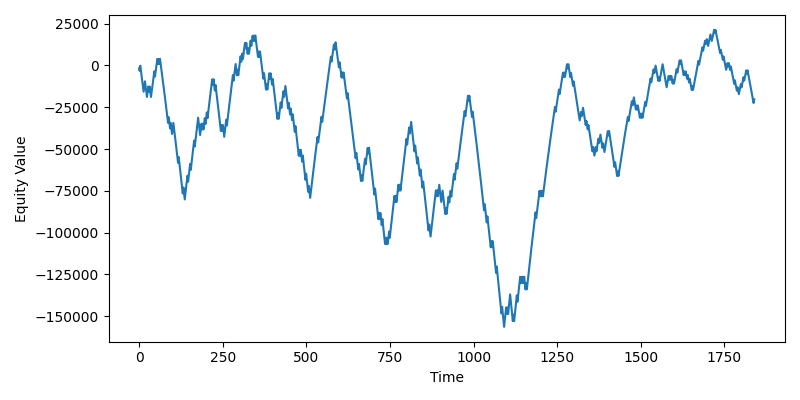
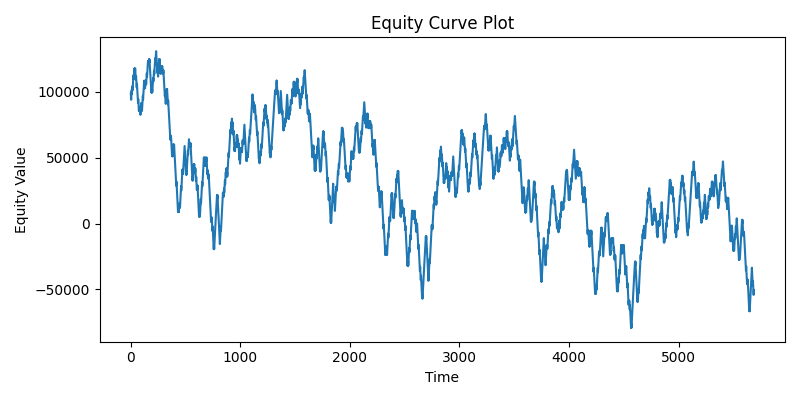
working on fixing the calculations

diff --git a/Assignment1/reporting.py b/Assignment1/reporting.py
@@ -4,45 +4,100 @@ import numpy as np
 import matplotlib.pyplot as plt
 from engine import ExecutionEngine
 
-def find_total_return (engine): 
-    total  = 0 
-    marketdatapoints = engine.market_data 
+# def find_total_return (engine): 
+#     total  = 0 
+#     marketdatapoints = engine.market_data 
 
-    prev_order = marketdatapoints[0] 
+#     prev_order = marketdatapoints[0] 
     
-    for i in range (1, len(marketdatapoints)): 
-        curr_order = marketdatapoints[i] 
-        simple_return = (curr_order.price - prev_order.price - 0.0) / prev_order.price
-        total += simple_return 
+#     for i in range (1, len(marketdatapoints)): 
+#         curr_order = marketdatapoints[i] 
+#         simple_return = (curr_order.price - prev_order.price - 0.0) / prev_order.price
+#         total += simple_return 
 
-        prev_order = curr_order 
+#         prev_order = curr_order 
 
-    return total  
+#     return total  
 
+def find_total_return (engine): 
+    initial_cash = engine.cash 
+
+    engine.run() 
+
+    final_cash = engine.cash
+
+    print (f"Initial Cash: {initial_cash} | Final Cash: {final_cash}") 
+
+    return (final_cash - initial_cash) / initial_cash
+
+    # total = 0 
+
+    # orders = engine.order_history
+
+    # portfolio_val = engine.cash
+
+    # for order in orders: 
+    #     if order.status == "BUY": 
+    #         new_portfolio_val = portfolio_val - order.price * order.quantity
+    #     else: 
+    #         new_portfolio_val = portfolio_val + order.price * order.quantity
+        
+    #     simple_return = (new_portfolio_val - portfolio_val) / portfolio_val
+
+    #     total += simple_return 
+    #     portfolio_val = new_portfolio_val
+
+    # return total 
+
+
+
+# def calc_periodic_returns(engine): 
+#     # periodic return = ((end_val / beg_val) - 1) * 100% 
+
+#     marketdatapoints = engine.market_data 
+
+#     periodic_returns = [] 
+
+#     prev_order = marketdatapoints[0] 
+
+#     for i in range (1, len(marketdatapoints)): 
+#         curr_order = marketdatapoints[i] 
+
+#         calc = ((curr_order.price / prev_order.price) - 1) # * 100 if i want to find the percentage, otherwise leave between 0-1 
+#         periodic_returns.append(calc) 
+        
+#         prev_order = curr_order
+
+#     return periodic_returns  
 
 def calc_periodic_returns(engine): 
-    # periodic return = ((end_val / beg_val) - 1) * 100% 
+    orders = engine.order_history
 
-    marketdatapoints = engine.market_data 
+    portfolio_val = engine.cash
 
     periodic_returns = [] 
 
-    prev_order = marketdatapoints[0] 
-
-    for i in range (1, len(marketdatapoints)): 
-        curr_order = marketdatapoints[i] 
-
-        calc = ((curr_order.price / prev_order.price) - 1) # * 100 if i want to find the percentage, otherwise leave between 0-1 
-        periodic_returns.append(calc) 
+    for order in orders: 
+        if order.status == "BUY": 
+            new_portfolio_val = portfolio_val - order.price * order.quantity
+        else: 
+            new_portfolio_val = portfolio_val + order.price * order.quantity
         
-        prev_order = curr_order
+        calc = ((new_portfolio_val / portfolio_val) - 1) 
 
-    return periodic_returns  
+        periodic_returns.append(calc)
+        portfolio_val = new_portfolio_val
 
-def calc_sharpe_ratio(engine, periodic_returns): 
+    return periodic_returns 
+
+def calc_sharpe_ratio(engine): 
+    print ("Calculating Sharpe Ratio")
+
     marketdatapoints = engine.market_data
+    periodic_returns = calc_periodic_returns(engine)
 
-    num_datapoints = len(marketdatapoints) 
+    # num_datapoints = len(marketdatapoints) 
+    num_datapoints = len(engine.order_history) 
 
     Rp = 0 # Portfolio's Average Return (Rp) 
     Rf = 0.0389 # Risk-Free Rate (Rf), for our purposes we will use the yield on a 3-month U.S. Treasury bill as the risk-free rate. The current 3 Month Treasury Bill Rate, as of September 19, 2025, is 3.89%
@@ -56,23 +111,27 @@ def calc_sharpe_ratio(engine, periodic_returns):
 
     # calculate Sigma 
     mean_return = find_total_return (engine) / num_datapoints
+    print (f"Mean return: {mean_return}")
     
     for mdp in marketdatapoints: 
-        sigma += (mdp.price - mean_return) ** 2 # calculate squared variances for each data point 
+        sigma += (mdp.price + 0.0 - mean_return) ** 2 # calculate squared variances for each data point 
     
     sigma /= num_datapoints # at this point we have the variance (sigma^2)
     sigma = sigma ** 0.5 # take square root to find the stanadard deviation 
 
+    print (f"Rp: {Rp}")
+    print (f"Rf: {Rf}")
+    print (f"sigma: {sigma}")
+
     return (Rp - Rf) / sigma 
     
-
 
 def max_drawdown (engine): 
     mdd = 0 
 
     orders = engine.order_history
 
-    portfolio_val = 0
+    portfolio_val = engine.cash
 
     peak = float('-inf')
     trough = float('inf')
@@ -98,7 +157,7 @@ def save_equity_plot(engine, filename="equity_curve.png"):
     marketdatapoints = engine.market_data 
     orders = engine.order_history
 
-    portfolio_val = 0 
+    portfolio_val = engine.cash 
 
     i = 0 
     for order in orders: 
@@ -117,6 +176,7 @@ def save_equity_plot(engine, filename="equity_curve.png"):
     plt.plot(x,y)
     plt.ylabel("Equity Value")
     plt.xlabel("Time")
+    plt.title('Equity Curve Plot')
     plt.tight_layout()
     plt.savefig(filename)
     plt.close()
@@ -127,7 +187,7 @@ def write_markdown_report(engine, outpath="performance.md"):
 
     total_return = find_total_return (engine)
     periodic_returns = calc_periodic_returns(engine)
-    sharpe = calc_sharpe_ratio (engine, periodic_returns)
+    sharpe = calc_sharpe_ratio (engine)
     max_dd = max_drawdown (engine)
 
     periodic_returns = pd.DataFrame(periodic_returns) # converting from a list to a Pandas Dataframe
@@ -140,7 +200,7 @@ def write_markdown_report(engine, outpath="performance.md"):
         f.write("| Metric | Value |\n")
         f.write("|--------|-------:|\n")
         f.write(f"| Total Return | {total_return:.2%} |\n")
-        f.write(f"| Sharpe Ratio (annualized) | {sharpe:.2f} |\n")
+        f.write(f"| Sharpe Ratio | {sharpe:.2f} |\n")
         f.write(f"| Max Drawdown | {max_dd:.2%} |\n\n")
 
         f.write("## Equity Curve\n\n")
